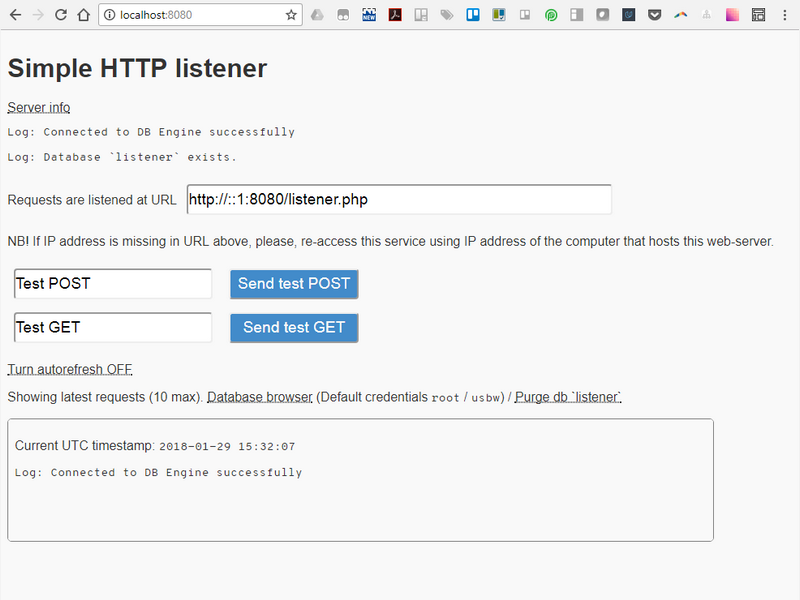
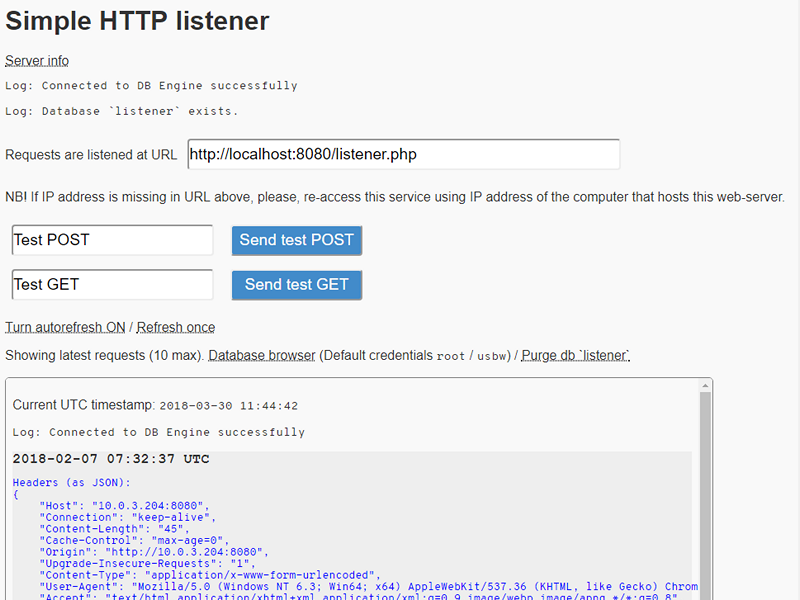
(bugfix): Assign localhost when SERVER_ADDR is not available or sensible

diff --git a/root/index.php b/root/index.php
@@ -36,11 +36,13 @@
 	include_once('../php-listener/db-connect.php');
 	include_once('../php-listener/db-create.php');
 	if ($purgedb) include_once('../php-listener/db-purge.php');
+	$server_address = $_SERVER['SERVER_ADDR'];
+	if (strlen($server_address)<7) $server_address = 'localhost';
 	?>
 	<p>Requests are listened at URL 
 	   <input id="url-src" type="text" size="48" 
 	   onchange="handleUrlChange()"
-	   value="<?=$_SERVER['REQUEST_SCHEME']?>://<?=$_SERVER['SERVER_ADDR']?>:<?=$_SERVER['SERVER_PORT']?>/listener.php"
+	   value="<?=$_SERVER['REQUEST_SCHEME']?>://<?=$server_address?>:<?=$_SERVER['SERVER_PORT']?>/listener.php"
 	   />
 	</p>
 	<p>NB! If IP address is missing in URL above, please, re-access this service using IP address of the computer that hosts

diff --git a/README.md b/README.md
@@ -43,13 +43,14 @@ Mapping rules:
  * `php-listener/` should be located at the same level as the doc root folder
  * `php.ini`: set `always_populate_raw_post_data` property to `On`
 
+Launch the web server (e.g. run `usbwebserver.exe`).
+
 Grant Apache and MySQL whatever permissions your OS requires.
 ![Permissions under Windows](img/screenshot-permissions.png)
 
-Launch the web server.
-
 Navigate to [localhost](localhost), [localhost:8080](localhost:8080) or other
-port as your web server instance requires.
+port as your web server instance requires (e.g. click `Localhost` button in
+UsbWebServer UI).
 
 You will want to see the following:
 
